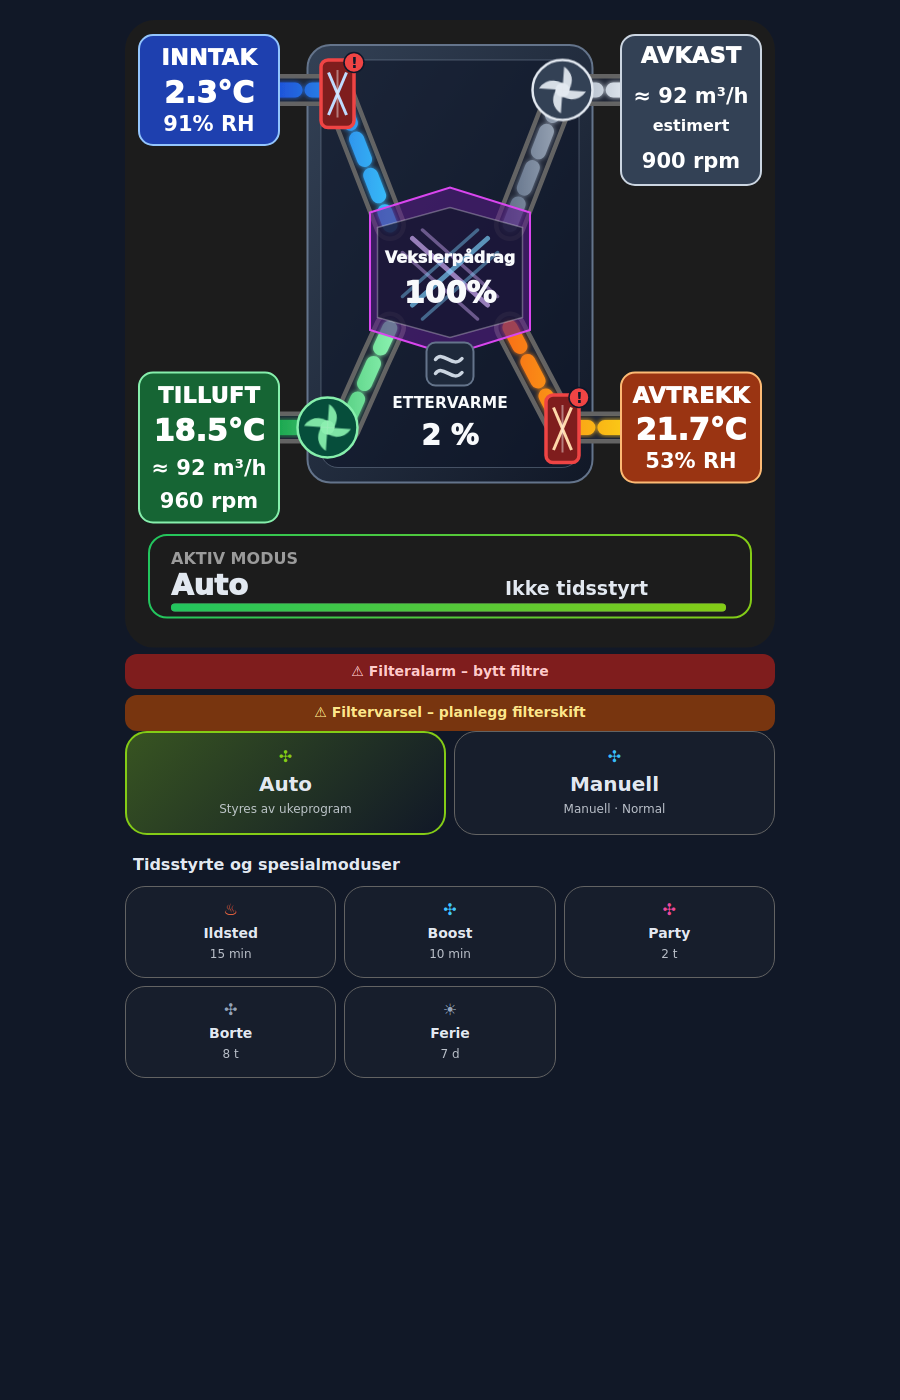
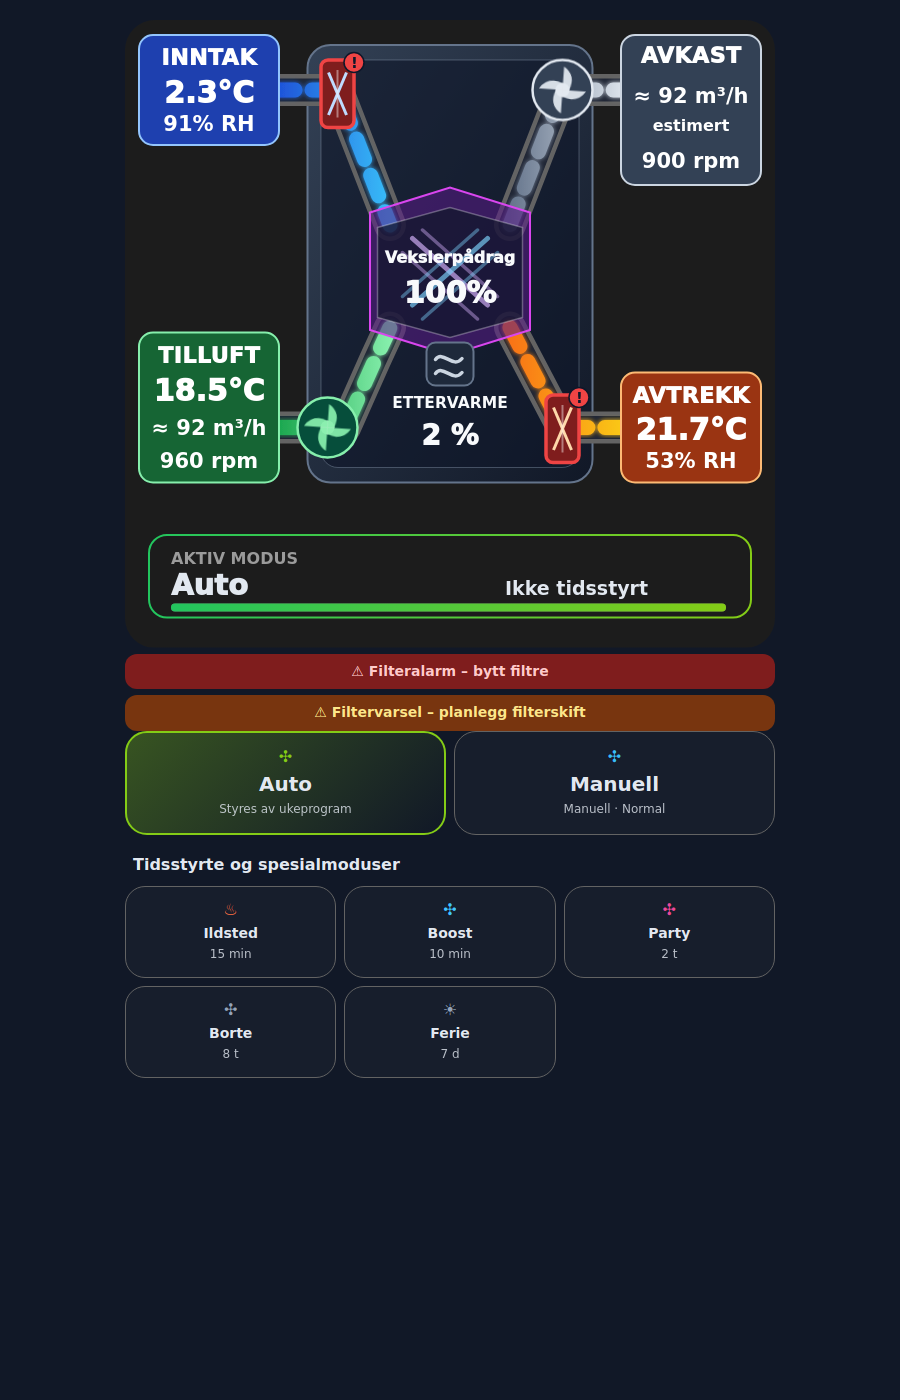
Align cockpit panels and document HACS custom repository updates in 1.1.4

Changed region(s): [[0.1556, 0.215, 0.3111, 0.3993]]

diff --git a/vsr300-cards.js b/vsr300-cards.js
@@ -1,4 +1,4 @@
-/* VSR300 custom cards · version 1.1.3 · 2026-11-02
+/* VSR300 custom cards · version 1.1.4 · 2026-11-02
  * SPDX-License-Identifier: MIT
  * Copyright (c) 2026 stboee
  * Based on Systemair SVG / Kontrollpanel 4.8.1.
@@ -8,7 +8,7 @@
  */
 (() => {
   'use strict';
-  const VERSION = '1.1.3';
+  const VERSION = '1.1.4';
   const FIELD = (key, label, domain, defaultId, extra = {}) => ({ key, label, domain, defaultId, ...extra });
   const SVG_FIELDS = [
     FIELD('mode', 'Rapportert driftsmodus', 'sensor', 'sensor.systemair_save_modus'),
@@ -485,11 +485,11 @@ const heaterFill = !ettervarmeKnown ? '#854d0e' : ettervarmeActive ? '#991b1b' :
           <text x="168" y="-85" text-anchor="middle" class="value port-text">${uteT}</text>
           <text x="168" y="-29" text-anchor="middle" class="small port-text">${uteRh}</text>
 
-          <rect class="supply-info" x="28" y="455" width="280" height="300" rx="28" fill="#166534" stroke="#86efac" stroke-width="4" />
-          <text x="168" y="515" text-anchor="middle" class="label port-text">TILLUFT</text>
-          <text x="168" y="592" text-anchor="middle" class="value port-text">${tilluftT}</text>
-          <text x="168" y="660" text-anchor="middle" class="small port-text">${tilluftFlow}</text>
-          <text x="168" y="725" text-anchor="middle" class="small port-text supply-rpm">${tilluftRpm}</text>
+          <rect class="supply-info" x="28" y="375" width="280" height="300" rx="28" fill="#166534" stroke="#86efac" stroke-width="4" />
+          <text x="168" y="435" text-anchor="middle" class="label port-text">TILLUFT</text>
+          <text x="168" y="512" text-anchor="middle" class="value port-text">${tilluftT}</text>
+          <text x="168" y="580" text-anchor="middle" class="small port-text">${tilluftFlow}</text>
+          <text x="168" y="645" text-anchor="middle" class="small port-text supply-rpm">${tilluftRpm}</text>
 
           <rect class="exhaust-info" x="992" y="-220" width="280" height="300" rx="28" fill="#334155" stroke="#cbd5e1" stroke-width="4" />
           <text x="1132" y="-165" text-anchor="middle" class="label port-text">AVKAST</text>
@@ -497,7 +497,7 @@ const heaterFill = !ettervarmeKnown ? '#854d0e' : ettervarmeActive ? '#991b1b' :
           <text x="1132" y="-29" text-anchor="middle" class="micro port-text">estimert</text>
           <text x="1132" y="46" text-anchor="middle" class="small port-text extract-rpm">${avtrekkRpm}</text>
 
-          <rect x="992" y="455" width="280" height="220" rx="28" fill="#9a3412" stroke="#fdba74" stroke-width="4" />
+          <rect class="extract-info" x="992" y="455" width="280" height="220" rx="28" fill="#9a3412" stroke="#fdba74" stroke-width="4" />
           <text x="1132" y="515" text-anchor="middle" class="label port-text">AVTREKK</text>
           <text x="1132" y="590" text-anchor="middle" class="value port-text">${avtrekkT}</text>
           <text x="1132" y="646" text-anchor="middle" class="small port-text">${inneRh}</text>

diff --git a/README.md b/README.md
@@ -2,18 +2,36 @@
 
 Two Home Assistant cards for Systemair SAVE VSR300: **Systemair SVG** and
 **Systemair Kontrollpanel**, with graphical entity selection. Current card
-version: **1.1.3**. Reference setup: HA 2026.10.2 and
+version: **1.1.4**. Reference setup: HA 2026.10.2 and
 [Howard systemair_modbus 1.3.0](https://github.com/Howard0000/home-assistant-systemair-modbus).
 
 [Norsk veiledning](README.nb.md)
+
+## Install with HACS — custom repository
+
+1. In HACS, open the three-dot menu and select **Custom repositories**.
+2. Add **`https://github.com/stboee/vsr300-cards`**, select type **Dashboard** (Plugin/Lovelace in older HACS versions), and add the repository.
+3. Open VSR300 Cards in HACS and download the latest release.
+4. Under **Settings → Dashboards → Resources**, check that the HACS resource is present as a **JavaScript module**: `/hacsfiles/vsr300-cards/vsr300-cards.js`. Keep any query string managed by HACS. If the resource is missing, add it once.
+5. Fully reload the browser and add **Systemair SVG** and **Systemair Kontrollpanel** from the dashboard card picker. Adapt both cards' entities as described below.
+
+When switching from manual installation, replace the old
+`/local/vsr300/vsr300-cards.js?...` resource with the HACS resource so that the
+same cards are loaded only once. Keep the existing card configurations.
 
 ## Manual installation
 
 1. Download [vsr300-cards.js](vsr300-cards.js) using GitHub's **Download raw file** button.
 2. Copy it to `/config/www/vsr300/vsr300-cards.js` in Home Assistant. Create the `vsr300` folder if needed.
-3. Add a dashboard resource with URL **`/local/vsr300/vsr300-cards.js?v=1.1.3`** and type **JavaScript module**.
+3. Add a dashboard resource with URL **`/local/vsr300/vsr300-cards.js?v=1.1.4`** and type **JavaScript module**.
 4. Fully reload the browser, edit the dashboard and add **Systemair SVG** and **Systemair Kontrollpanel** from the card picker.
-5. **Adapt the entity bindings in both cards.** Open **Entitetskoblinger**, check every field and replace the example IDs with the matching entities from your own Home Assistant installation. Clear optional fields you do not use.
+
+## Configure both cards
+
+**Adapt the entity bindings in both cards, regardless of installation method.**
+Open **Entitetskoblinger**, check every field and replace the example IDs with
+the matching entities from your own Home Assistant installation. Clear optional
+fields you do not use.
 
 Complete YAML configurations are available in [01-SVG.yaml](examples/01-SVG.yaml)
 and [02-Kontrollpanel.yaml](examples/02-Kontrollpanel.yaml). **When using these
@@ -23,9 +41,14 @@ The frontend file itself does not require a Home Assistant restart.
 
 ## Updates
 
-Replace the JavaScript file, change the resource URL's version query to match
-that file, and fully reload the browser, including mobile devices. Keep your
-existing card configurations and entity selections.
+**HACS:** install the offered update in HACS, then fully reload the browser,
+including mobile devices. HACS manages the downloaded file and resource version;
+there is no need to edit a version query manually. Keep existing card
+configurations and entity selections. If the release is not yet shown, use
+**Update information** in the repository menu, then download the update.
+
+**Manual:** replace the JavaScript file, change the resource URL's version query
+to match that file, and fully reload the browser. Keep existing configurations.
 
 When upgrading from 1.0.0, select the optional **A-alarm**, **B-alarm** and
 **C-alarm** entities in the SVG editor to display these summary alarms.
@@ -33,7 +56,7 @@ When upgrading from 1.0.0, select the optional **A-alarm**, **B-alarm** and
 ## Options and displayed values
 
 - The outer cockpit background and mode panel follow the active Home Assistant theme. The unit and heat exchanger retain a dark appearance with light text in both light and dark themes. Air-port and alarm colours retain their meaning.
-- Fan RPM is shown in the taller Tilluft and Avkast information boxes. Heater percentage is enlarged; Vekslerpådrag appears on one line. Filter symbols and warning badges remain visible without separate FILTER captions.
+- Fan RPM is shown in the taller Tilluft and Avkast information boxes. Tilluft, Avtrekk and the unit share one bottom edge. Heater percentage is enlarged; Vekslerpådrag appears on one line. Filter symbols and warning badges remain visible without separate FILTER captions.
 - Animations: **På** (default), **Auto – følg enheten**, or **Av**. On animates even when the device requests reduced motion; Auto follows that preference.
 - Headings are hidden by default. Enable **Vis overskrift** to show a custom heading.
 - Remaining mode time counts down locally each second between integration reports and resynchronises with new reports. This is a display estimate; the active mode continues to come from the integration.

diff --git a/README.nb.md b/README.nb.md
@@ -1,17 +1,35 @@
 # VSR300 Cards – installasjon
 
 To Home Assistant-kort for Systemair SAVE VSR300: **Systemair SVG** og
-**Systemair Kontrollpanel**, med grafisk valg av entiteter. Kortversjon: **1.1.3**.
+**Systemair Kontrollpanel**, med grafisk valg av entiteter. Kortversjon: **1.1.4**.
 Referanseoppsettet er HA 2026.10.2 og
 [Howard systemair_modbus 1.3.0](https://github.com/Howard0000/home-assistant-systemair-modbus).
+
+## Installer med HACS – egendefinert repository
+
+1. Åpne trepunktsmenyen i HACS og velg **Egendefinerte repositorier / Custom repositories**.
+2. Legg til **`https://github.com/stboee/vsr300-cards`**, velg type **Dashboard** (Plugin/Lovelace i eldre HACS-versjoner), og legg til repositoriet.
+3. Åpne VSR300 Cards i HACS og last ned nyeste release.
+4. Under **Innstillinger → Dashbord → Ressurser** kontrollerer du at HACS-ressursen finnes som **JavaScript-modul**: `/hacsfiles/vsr300-cards/vsr300-cards.js`. Behold eventuelle parametere HACS legger til. Mangler ressursen, legger du den inn én gang.
+5. Last nettlesersiden helt på nytt og legg til **Systemair SVG** og **Systemair Kontrollpanel** fra kortvelgeren. Tilpass begge kortenes entiteter som beskrevet nedenfor.
+
+Ved overgang fra manuell installasjon erstatter du den gamle ressursen
+`/local/vsr300/vsr300-cards.js?...` med HACS-ressursen, slik at kortene bare lastes
+én gang. Behold eksisterende kortoppsett.
 
 ## Manuell installasjon
 
 1. Last ned [vsr300-cards.js](vsr300-cards.js) med GitHubs **Download raw file**-knapp.
 2. Kopier filen til `/config/www/vsr300/vsr300-cards.js` i Home Assistant. Opprett mappen `vsr300` ved behov.
-3. Legg til en dashboardressurs med URL **`/local/vsr300/vsr300-cards.js?v=1.1.3`** og type **JavaScript-modul**.
+3. Legg til en dashboardressurs med URL **`/local/vsr300/vsr300-cards.js?v=1.1.4`** og type **JavaScript-modul**.
 4. Last nettlesersiden helt på nytt. Rediger dashboardet og legg til **Systemair SVG** og **Systemair Kontrollpanel** fra kortvelgeren.
-5. **Tilpass entitetskoblingene i begge kort.** Åpne **Entitetskoblinger**, kontroller hvert felt og bytt eksempelnavnene til tilsvarende entiteter i din egen Home Assistant-installasjon. Tøm valgfrie felt du ikke bruker.
+
+## Oppsett av begge kort
+
+**Tilpass entitetskoblingene i begge kort, uansett installasjonsmetode.** Åpne
+**Entitetskoblinger**, kontroller hvert felt og bytt eksempelnavnene til
+tilsvarende entiteter i din egen Home Assistant-installasjon. Tøm valgfrie felt
+du ikke bruker.
 
 Komplette YAML-oppsett ligger i [01-SVG.yaml](examples/01-SVG.yaml) og
 [02-Kontrollpanel.yaml](examples/02-Kontrollpanel.yaml). **Bruker du disse
@@ -21,9 +39,14 @@ Selve frontendfilen krever ingen omstart av Home Assistant.
 
 ## Oppdatering
 
-Bytt JavaScript-filen, endre versjonstillegget i ressursadressen til å samsvare
-med filen, og last nettlesersiden helt på nytt, også på mobilen. Behold
-kortoppsettene og entitetsvalgene.
+**HACS:** Installer tilbudt oppdatering i HACS og last nettlesersiden helt på
+nytt, også på mobilen. HACS håndterer filen og ressursversjonen; du trenger ikke
+endre versjonstillegget manuelt. Behold kortoppsettene og entitetsvalgene.
+Vises ikke releasen ennå, velger du **Oppdater informasjon / Update information**
+i repositoriets meny og laster deretter ned oppdateringen.
+
+**Manuelt:** Bytt JavaScript-filen, endre versjonstillegget i ressursadressen
+til å samsvare med filen, og last nettlesersiden helt på nytt. Behold oppsettene.
 
 Ved oppdatering fra 1.0.0 velger du de valgfrie **A-alarm**, **B-alarm** og
 **C-alarm** i SVG-editoren dersom disse samlealarmene skal vises.
@@ -31,7 +54,7 @@ Ved oppdatering fra 1.0.0 velger du de valgfrie **A-alarm**, **B-alarm** og
 ## Valg og verdier
 
 - Bakgrunnen rundt aggregatet og modusfeltet følger det aktive HA-temaet. Aggregat og veksler har mørke flater med lys tekst i både lyst og mørkt tema. Luftportenes og alarmenes farger beholder betydningen.
-- Viftenes rpm står i høyere informasjonsbokser for Tilluft og Avkast. Ettervarmeprosenten er større, og Vekslerpådrag står på én linje. Filtersymboler og varselmerker beholdes uten separate FILTER-tekster.
+- Viftenes rpm står i høyere informasjonsbokser for Tilluft og Avkast. Tilluft, Avtrekk og aggregatet har felles underkant. Ettervarmeprosenten er større, og Vekslerpådrag står på én linje. Filtersymboler og varselmerker beholdes uten separate FILTER-tekster.
 - Animasjoner: **På** (standard), **Auto – følg enheten** eller **Av**. På animerer også når enheten ber om redusert bevegelse; Auto følger enhetens valg.
 - Overskrifter er skjult som standard. **Vis overskrift** aktiverer egen overskrift.
 - Resttid telles ned lokalt hvert sekund mellom integrasjonens rapporteringer og synkroniseres med nye rapporter. Dette er en beregnet visning; aktiv modus kommer fortsatt fra integrasjonen.

diff --git a/VERIFIKASJON.md b/VERIFIKASJON.md
@@ -1,6 +1,22 @@
-# Verifikasjon – 1.1.3 – 2026-11-02
+# Verifikasjon – 1.1.4 – 2026-11-02
 
-## Gjennomført lokalt for 1.1.3
+## Gjennomført lokalt for 1.1.4
+
+- 14 simulerte nettlesergrupper er bestått. Lys mobilvisning og mørk
+  desktopvisning er gjennomgått visuelt.
+- Bunnjustering er kontrollert i rendret SVG ved 360, 412 og 900 px. Tilluft,
+  Avtrekk og aggregatets ytterramme har samme underkant.
+- Tilluft-boksen er flyttet opp uten endringer i høyde, tekststørrelser eller
+  linjeavstand. Vifteverdier, estimatmerker, mørke komponenter og modusfelt
+  videreføres fra 1.1.3.
+- Dokumentasjonen beskriver HACS som egendefinert repository med type Dashboard,
+  ressurs via `/hacsfiles/`, oppdatering og overgang fra manuell ressurs. Oppsett
+  av entiteter i begge kort gjelder fortsatt for begge installasjonsmetoder.
+- HACS-fremgangsmåten er kontrollert mot HACS' offisielle dokumentasjon; faktisk
+  bruk er rapportert av prosjekteieren, se nedenfor. Agenten installerer eller
+  oppdaterer ikke i brukerens HA.
+
+## Historisk kontrollgrunnlag – 1.1.3, 2026-11-02
 
 - 14 simulerte nettlesergrupper er bestått. Lys mobilvisning og mørk
   desktopvisning er gjennomgått visuelt etter siste endring.
@@ -128,18 +144,24 @@ ble brukt bare i utviklingsmiljøet og inngår ikke i leveransen.
 
 ## Rapportert fra faktisk HA
 
+Prosjekteieren opplyste 2026-11-02 at repositoriet er lagt til i HACS som et
+custom repository, og at oppdatering fungerer godt uten manuell endring av
+ressurslenken. Dette er brukerens praktiske tilbakemelding fra egen installasjon.
+
+
 Prosjekteieren opplyste 2026-10-21 at 1.0.0-distribusjonskortene var så vidt testet og
 at de innledningsvis fungerer. Det er en første praktisk tilbakemelding, uten
 spesifisert dekning av alle kontroller, editorvalg eller signalkombinasjoner.
 
 ## Publiseringskontroll og gjenstående arbeid
 
-1.1.3 viderefører tidligere kortfunksjoner, forbedrer tekstplasseringen og
-beholder temaavhengig bakgrunn rundt et mørkt aggregat og en mørk veksler. Komplette eksempler, dokumentasjonslenker og
+1.1.4 bunnjusterer Tilluft-boksen og dokumenterer HACS-ruten som prosjekteieren
+har tatt i bruk. Tidligere kortfunksjoner og entitetskoblinger videreføres. Komplette eksempler, dokumentasjonslenker og
 pakkens sjekksummer kontrolleres før publisering. MIT-lisensen beholdes uendret.
 
-Full gjennomgang av HAs grafiske editor, entitetsbytte, modusbetjening og
-manuell installasjon/oppdatering gjenstår. Repositorystruktur og eksempler
+Full gjennomgang av HAs grafiske editor, entitetsbytte og modusbetjening
+gjenstår. HACS er praktisk rapportert i referanseinstallasjonen; full
+installasjons- og oppdateringskontroll i andre oppsett gjenstår. Repositorystruktur og eksempler
 kan kontrolleres lokalt, men det erstatter ikke faktisk installasjon i HA.
 Ingen praktisk test eller endring i brukerens HA startes av publiseringen.
 

diff --git a/SOURCES.md b/SOURCES.md
@@ -17,6 +17,9 @@ Version 1.1.3, 2026-11-02, restores the reviewed 1.1.1 equipment colours inside
 the theme-aware canvas, moves fan RPM to taller air-port boxes, and improves
 equipment labels and heater percentage size. The exchanger face is wider to
 fit its single-line title; the airflow paths and data bindings are unchanged.
+Version 1.1.4, 2026-11-02, aligns the lower information panels with the unit
+shell and documents HACS as a custom-repository installation route following
+the maintainer's report that HACS installation and updates work.
 
 The initial entity names are configuration presets from the maintainer's HA
 installation. They are not credentials, recorded operating data or universal
@@ -37,6 +40,9 @@ part of this repository.
 | [MDN reduced-motion media query](https://developer.mozilla.org/en-US/docs/Web/CSS/Reference/At-rules/@media/prefers-reduced-motion) | Behaviour of the optional Auto animation mode. |
 | [HA state objects](https://www.home-assistant.io/docs/configuration/state_object/) | Report/update timestamps used to anchor the local countdown display. |
 | [MDN setInterval](https://developer.mozilla.org/en-US/docs/Web/API/Window/setInterval) | Local one-second visual updates and timer cleanup. |
+| [HACS custom repositories](https://www.hacs.dev/docs/faq/custom_repositories/) | Add this GitHub repository manually in HACS. |
+| [HACS dashboard elements](https://hacs.dev/docs/use/repositories/type/dashboard/) | Dashboard type, downloaded frontend files and the `/hacsfiles/` resource endpoint. |
+| [HACS repository dashboard](https://github.com/hacs/documentation/blob/main/source/docs/use/repositories/dashboard.md) | Download releases, update repository information and keep metadata refresh distinct from downloading an update. |
 | [HA theming and design tokens](https://contributors.home-assistant.io/frontend/architecture/theming/) | Inherited card/background/text/divider CSS variables for light, dark and custom themes. |
 
 The distributed JavaScript has no imports, bundled third-party JavaScript

diff --git a/CHANGELOG.md b/CHANGELOG.md
@@ -1,5 +1,16 @@
 # Changelog
 
+## 1.1.4 — 2026-11-02
+
+- Raise the Tilluft information box to align its bottom edge with Avtrekk and
+  the unit shell. Keep the taller box, line spacing and all font sizes.
+- Document HACS custom-repository installation and updates in English and
+  Norwegian, including the Dashboard category, HACS resource path, migration
+  from the old manual resource and entity binding in both cards.
+- Keep manual installation as an alternative. Record the maintainer's report
+  that HACS custom-repository updates work in the reference installation.
+- Keep the dark equipment, theme-aware canvas, bindings and controls unchanged.
+
 ## 1.1.3 — 2026-11-02
 
 - Move supply fan RPM into the Tilluft information box and extract fan RPM into

diff --git a/ENTITETSKART.md b/ENTITETSKART.md
@@ -1,4 +1,4 @@
-# Entitetskart – custom cards 1.1.3
+# Entitetskart – custom cards 1.1.4
 
 Startkoblingene er eksempler fra referanseoppsettet. Brukeren må kontrollere alle
 koblinger i begge kort og endre dem til tilsvarende entiteter i sin egen
